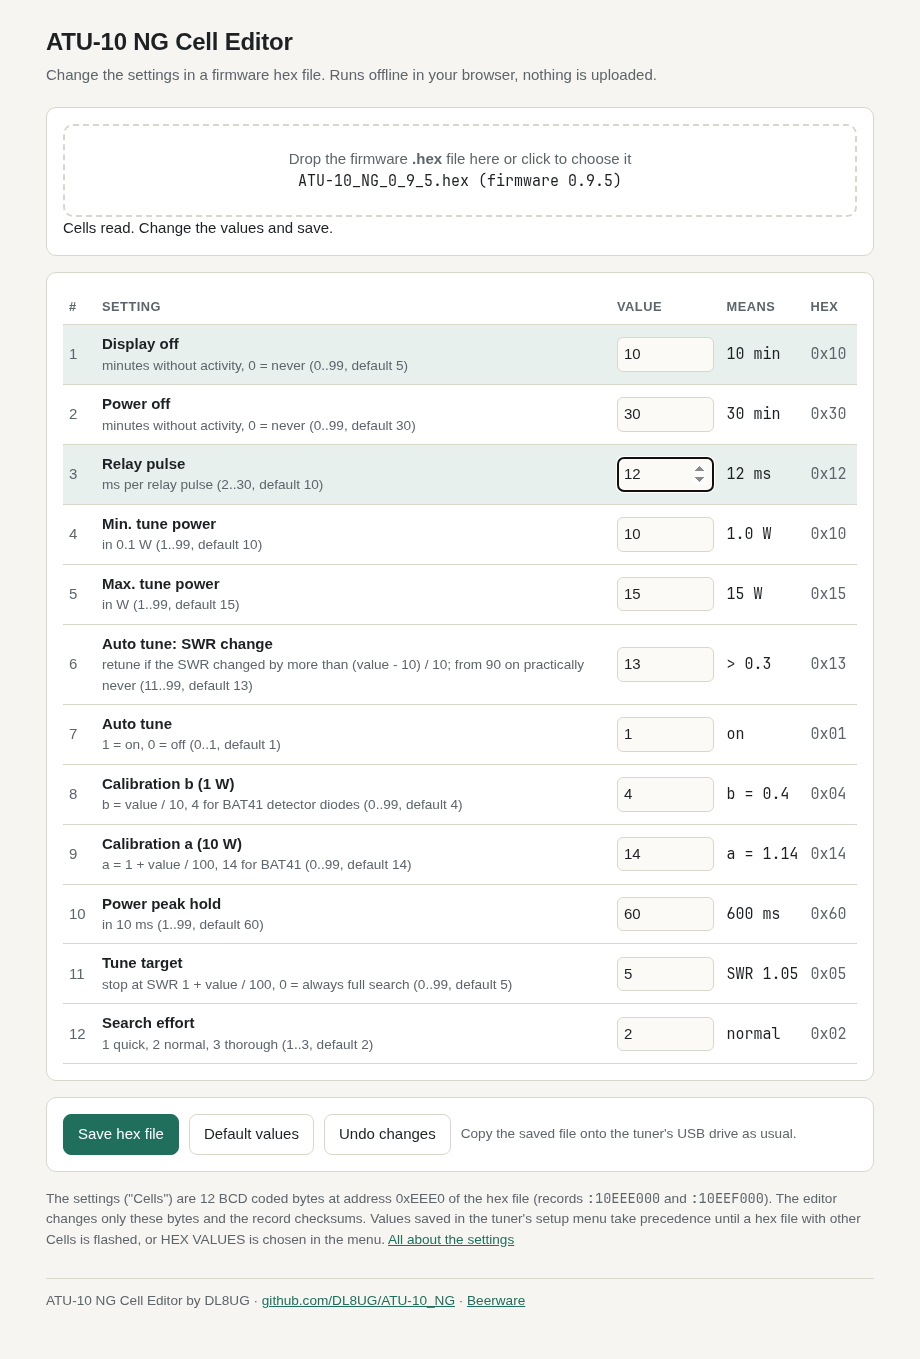
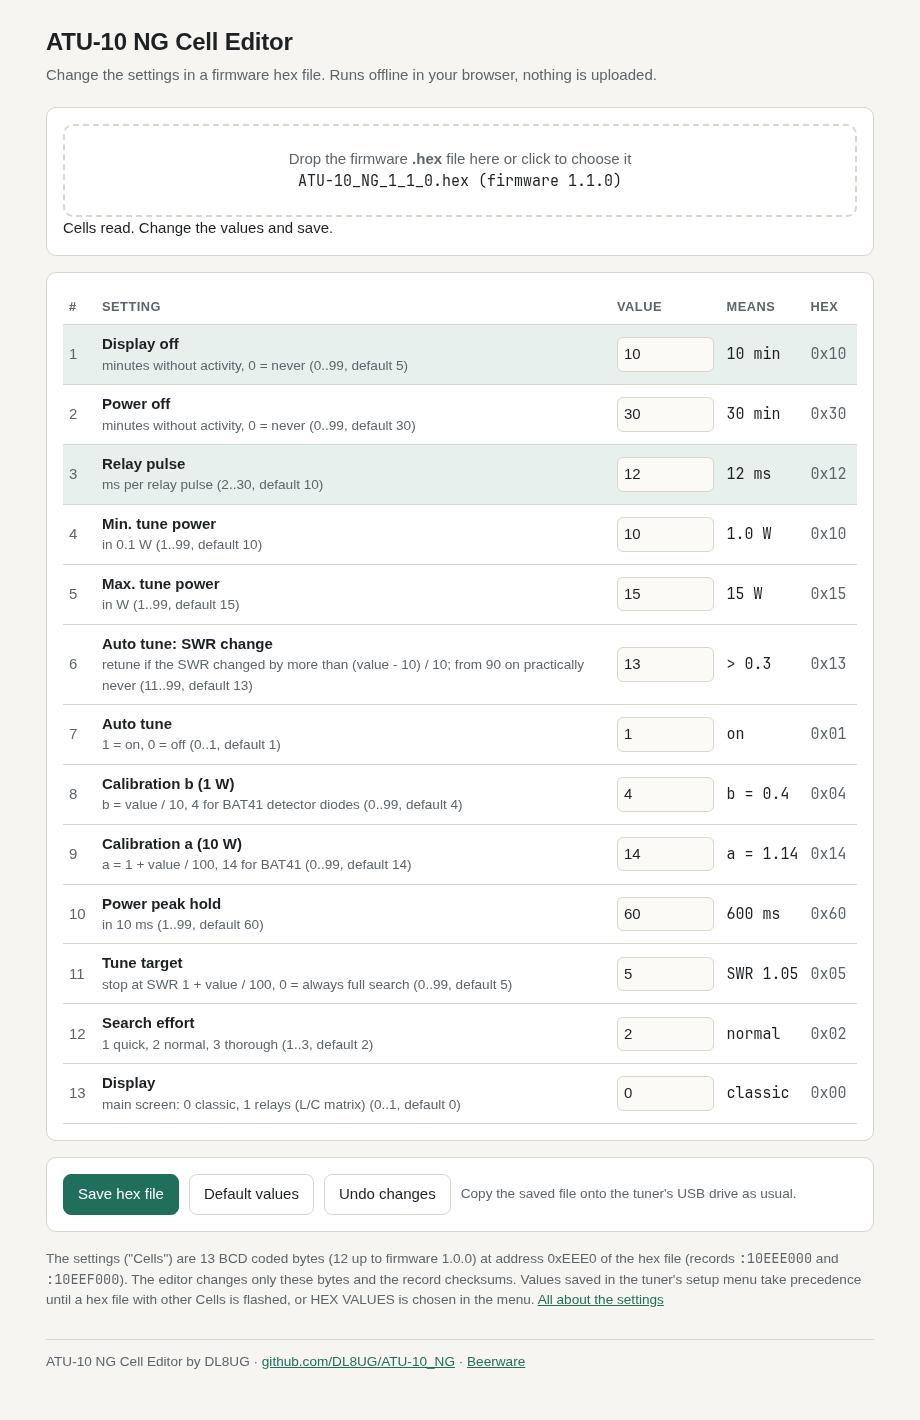
Version 1.1.0: relay view
Docs for the release: changelog, status, download, greeting, timeline,
hex examples, the Cell editor note and screenshot with setting 13.

diff --git a/tools/cell-editor.html b/tools/cell-editor.html
@@ -79,7 +79,7 @@
     <span class="note">Copy the saved file onto the tuner's USB drive as usual.</span>
   </div>
 
-  <p class="note">The settings ("Cells") are 12 BCD coded bytes at address 0xEEE0 of the hex file
+  <p class="note">The settings ("Cells") are 13 BCD coded bytes (12 up to firmware 1.0.0) at address 0xEEE0 of the hex file
     (records <code>:10EEE000</code> and <code>:10EEF000</code>). The editor changes only these
     bytes and the record checksums. Values saved in the tuner's setup menu take
     precedence until a hex file with other Cells is flashed, or HEX VALUES is chosen

diff --git a/src/version.h b/src/version.h
@@ -1,6 +1,6 @@
 #ifndef VERSION_H
 #define VERSION_H
 
-#define FW_VERSION "1.0.0"
+#define FW_VERSION "1.1.0"
 
 #endif

diff --git a/README.md b/README.md
@@ -6,7 +6,7 @@ stable tuner – not the fastest tune.
 
 ![Display](docs/display-main.png)
 
-**Status: 1.0.0, tested on the device.** See the [timeline](#development-status) below.
+**Status: 1.1.0, tested on the device.** See the [timeline](#development-status) below.
 
 ## Contents
 
@@ -58,10 +58,10 @@ stable tuner – not the fastest tune.
 
 ## Download
 
-**Version 1.0.0**: on the
+**Version 1.1.0**: on the
 [latest release page](https://github.com/DL8UG/ATU-10_NG/releases/latest),
-the hex file `ATU-10_NG_1_0_0.hex`, or a zip with the hex file and the
-license. What is new: see the [changelog](CHANGELOG.md#100).
+the hex file `ATU-10_NG_1_1_0.hex`, or a zip with the hex file and the
+license. What is new: see the [changelog](CHANGELOG.md#110).
 
 All earlier versions stay available on the
 [releases page](https://github.com/DL8UG/ATU-10_NG/releases).
@@ -71,7 +71,7 @@ All earlier versions stay available on the
 1. Connect the tuner to the computer with a USB cable.
 2. A USB drive appears. Copy the `.hex` file onto it.
 3. Wait until the tuner restarts and shows the greeting, two pages of 2
-   seconds: "ATU-10 / HARDWARE BY N7DDC", then the version "NG 1.0.0 /
+   seconds: "ATU-10 / HARDWARE BY N7DDC", then the version "NG 1.1.0 /
    FIRMWARE BY DL8UG".
 
    ![Greeting, page 1](docs/display-greeting.png) ![Greeting, page 2](docs/display-greeting2.png)
@@ -323,6 +323,7 @@ not come on, switch the tuner off and on again.
 | 2026-10-04 | 0.9.5 | release, tested on the device | battery warnings in steps (symbol blinks below 3.4 V, RECHARGE below 3.2 V, off below 3.0 V), LOW BATT at once when switched on with an empty battery, relay pulse 10 ms as the data sheets ask, Cell editor shows the firmware version; review fixes |
 | 2026-10-06 | 0.9.6 | release, tested on the device | less current while switched off, 15 µA (FW 1.6: 75 µA): display lines released, no input buffers on open lines |
 | 2026-10-06 | 1.0.0 | release, tested on the device | nothing left to improve: the same as 0.9.6, only the version number grew up |
+| 2026-10-10 | 1.1.0 | release, tested on the device | relay view (setting 13): the L and C relays, their values and the capacitor side on the display; capacitor side checked on the device |
 
 More: [Changelog](CHANGELOG.md) · [Settings in detail](docs/SETTINGS.md) · [How tuning works](docs/TUNING.md) · [Comparison with FW 1.6](docs/COMPARISON.md) · [Development](docs/DEVELOPMENT.md)
 

diff --git a/docs/SETTINGS.md b/docs/SETTINGS.md
@@ -173,7 +173,7 @@ everything else in the file stays byte for byte the same.
 
 The hex file is a text file in the Intel HEX format. The 13 settings are in
 two lines near the end, starting with `:10EEE000` and `:10EEF000`
-(address 0xEEE0 in the program memory). In the hex file of version 1.0.0:
+(address 0xEEE0 in the program memory). In the hex file of version 1.1.0:
 
 ```
 :10EEE0000534303410341034153413340134043400
@@ -227,7 +227,7 @@ bytes of the line after the `:` except the checksum; the checksum is what
 brings the low byte of that sum to zero (256 minus the low byte).
 
 **Example: relay pulse 10 ms → 12 ms** (setting 3, the third pair in the
-first line, `10` becomes `12`; the hex file of 1.0.0):
+first line, `10` becomes `12`; the hex file of 1.1.0):
 
 ```
 before:  :10EEE000 05 34 30 34 10 34 10 34 15 34 13 34 01 34 04 34 00
@@ -250,8 +250,8 @@ Rather than calculating by hand, use the [Cell editor](#2-cell-editor-in-the-bro
 or on the command line `tools/cells.py` from this repository:
 
 ```sh
-python3 tools/cells.py show ATU-10_NG_1_0_0.hex                    # list the settings
-python3 tools/cells.py set ATU-10_NG_1_0_0.hex my.hex 3=12 1=10    # change settings 3 and 1
+python3 tools/cells.py show ATU-10_NG_1_1_0.hex                    # list the settings
+python3 tools/cells.py set ATU-10_NG_1_1_0.hex my.hex 3=12 1=10    # change settings 3 and 1
 ```
 
 `cells.py set` takes the values in plain decimal (setting=value), writes the

diff --git a/docs/COMPARISON.md b/docs/COMPARISON.md
@@ -43,9 +43,9 @@ against the same models of antennas and of the tuner.
 
 Both use the defaults of their hex files.
 
-| | FW 1.6 | ATU-10 NG 1.0.0 |
+| | FW 1.6 | ATU-10 NG 1.1.0 |
 |---|---|---|
-| Settings (Cells) | 10, only in the hex file | 12, in a menu on the tuner, in a browser editor or in the hex file |
+| Settings (Cells) | 10, only in the hex file | 13, in a menu on the tuner, in a browser editor or in the hex file |
 | Display off / power off after | 5 / 30 min | 5 / 30 min |
 | Relay pulse | 7 ms (8 ms below 3.8 V) | 10 ms (11 ms at 3.8 V and below), as the relay data sheets ask |
 | Min. / max. tune power | 1.0 W / 15 W, maximum checked on the forward power | 1.0 W / 15 W, maximum checked on the power the transmitter delivers (forward − reflected) |

diff --git a/CHANGELOG.md b/CHANGELOG.md
@@ -5,7 +5,7 @@ tag `vX.Y.Z` in this repository; the hex file is on its release page.
 
 ## Contents
 
-- [Not released yet](#not-released-yet)
+- [1.1.0](#110)
 - [1.0.0](#100)
 - [0.9.6](#096)
 - [0.9.5](#095)
@@ -16,7 +16,9 @@ tag `vX.Y.Z` in this repository; the hex file is on its release page.
 - [0.9.0](#090)
 - [0.1.0](#010)
 
-## Not released yet
+## 1.1.0
+
+2026-10-10, [release](https://github.com/DL8UG/ATU-10_NG/releases/tag/v1.1.0), tested on the device
 
 - new: relay view (setting 13, DISPLAY in the setup menu). The upper half of
   the display shows the L and C relays as cells, the sum of the coils and
